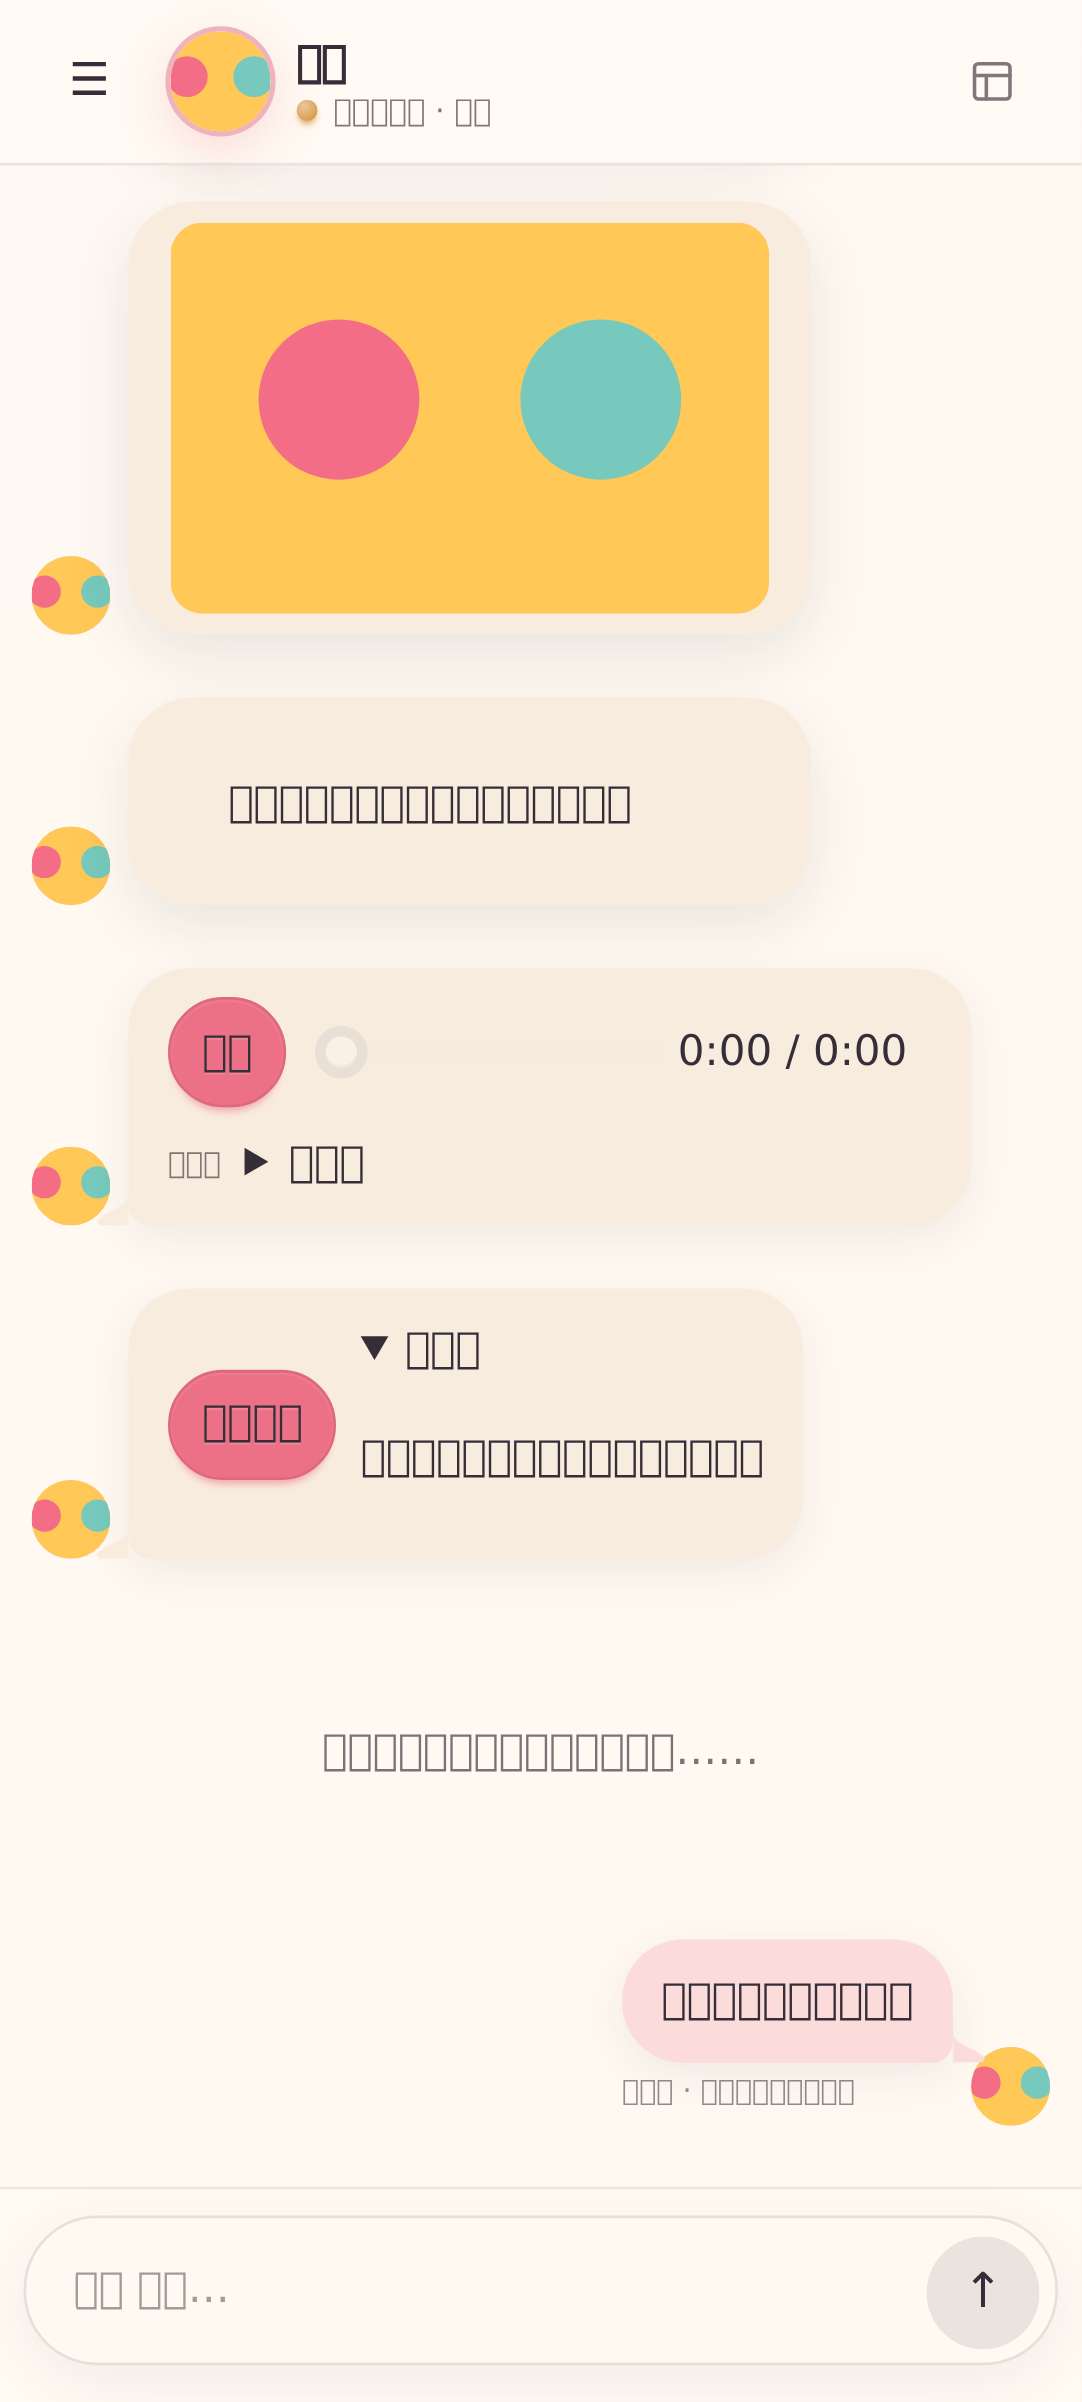
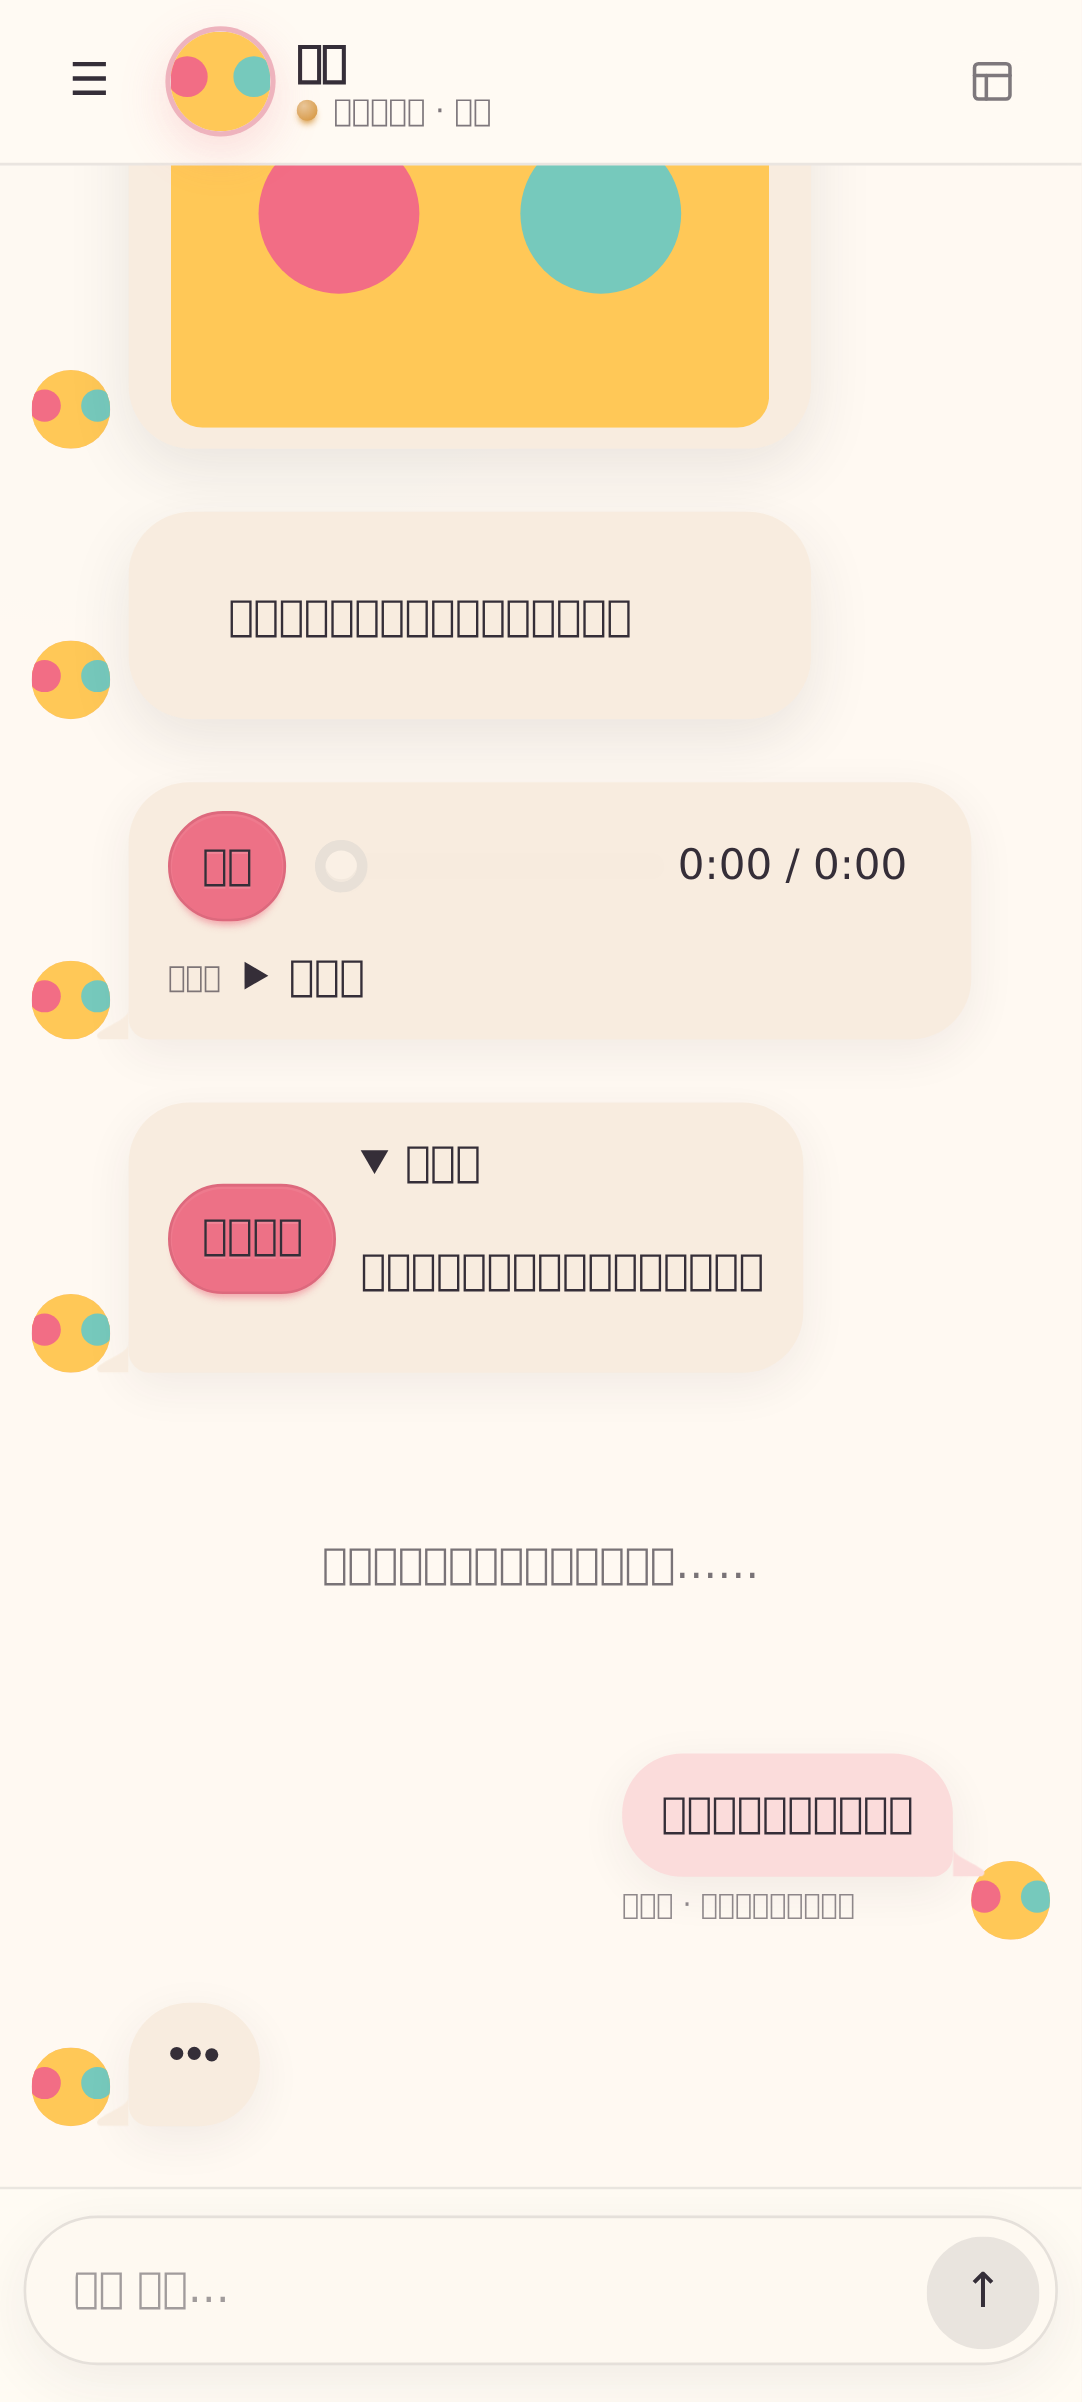
fix(companion): show typing indicator while running

diff --git a/src/client/Companion.svelte b/src/client/Companion.svelte
@@ -444,6 +444,14 @@
               <div class="companion-recovery" role={item.tone === "error" ? "alert" : "status"}><p>{item.text}</p></div>
             {/if}
           {/each}
+          {#if projection.running}
+            <article class="cmp-chat cmp-chat-start companion-row incoming" data-testid="companion-typing-indicator" role="status" aria-label={`${identity.companionName}正在输入`}>
+              <div class="cmp-chat-image cmp-avatar cmp-avatar-placeholder cmp:rounded-full message-avatar">
+                <div class="companion-avatar-crop cmp:rounded-full">{#if identity.companionAvatar}<img src={identity.companionAvatar} alt="" />{:else}<span aria-hidden="true">✦</span>{/if}</div>
+              </div>
+              <div class="cmp-chat-bubble companion-bubble"><span class="cmp-loading cmp-loading-dots cmp-loading-sm" aria-hidden="true"></span></div>
+            </article>
+          {/if}
           {#if !wasNearBottom && projection.items.length > 0}<button class="cmp-btn cmp-btn-primary cmp-btn-sm" style="position:sticky;bottom:10px;left:50%;transform:translateX(-50%)" on:click={() => timeline.scrollTop = timeline.scrollHeight}>有新消息 ↓</button>{/if}
           </div>
         </div>

diff --git a/fixture/main.ts b/fixture/main.ts
@@ -65,6 +65,7 @@ declare global {
       removeImage(): void;
       setTheme(theme: "light" | "dark"): void;
       setStatus(status: CompanionProjection["status"]): void;
+      setRunning(running: boolean): void;
       setIdentity(patch: Partial<CompanionBridgeProps["identity"]>): void;
       revoked(): number;
       rootIsStable(): boolean;
@@ -84,6 +85,7 @@ window.__companionFixture = {
   },
   setTheme(theme) { propsStore.update((current) => ({ ...current, scheme: theme })); },
   setStatus(status) { propsStore.update((current) => ({ ...current, projection: { ...current.projection!, status } })); },
+  setRunning(running) { propsStore.update((current) => ({ ...current, projection: { ...current.projection!, running } })); },
   setIdentity(patch) { propsStore.update((current) => ({ ...current, identity: { ...current.identity!, ...patch } })); },
   revoked: () => revokedImageUrls,
   rootIsStable: () => document.getElementById("dsh-companion") === mountedCompanionRoot,

diff --git a/tests/e2e/fixture.spec.ts b/tests/e2e/fixture.spec.ts
@@ -77,6 +77,15 @@ test("draft edits stay local to the composer", async ({ page }) => {
   expect(timing).toBeLessThan(50);
 });
 
+test("shows an incoming typing indicator only while the companion is running", async ({ page }) => {
+  await page.goto("/");
+  const indicator = page.getByTestId("companion-typing-indicator");
+  await expect(indicator).toBeVisible();
+  await expect(indicator).toHaveAccessibleName("小灯正在输入");
+  await page.evaluate(() => window.__companionFixture?.setRunning(false));
+  await expect(indicator).toHaveCount(0);
+});
+
 test("Svelte 5 bridge applies live identity and theme changes without remounting", async ({ page }) => {
   await page.goto("/");
   await expect(page.getByTestId("companion-root")).toHaveAttribute("data-theme", "sticker-messenger");
